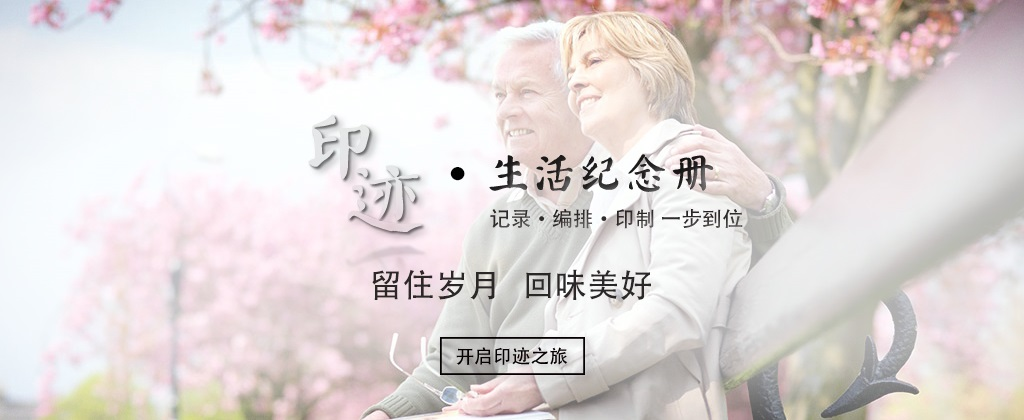
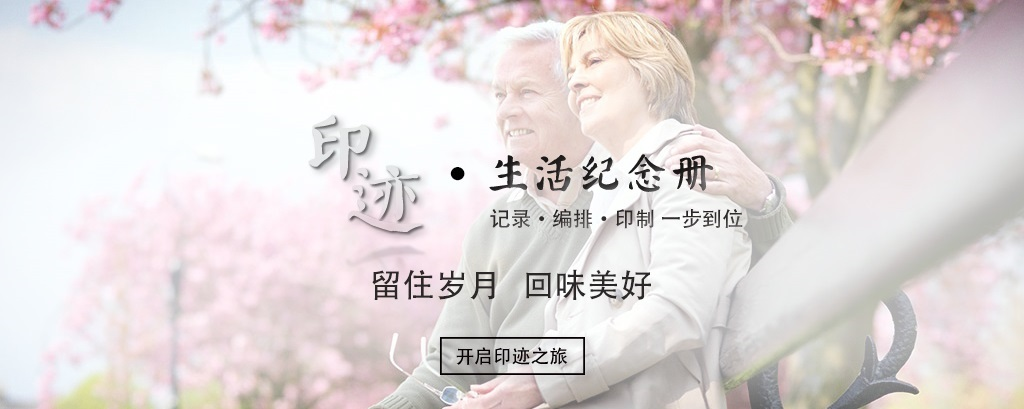
首页逻辑修改，添加按钮

diff --git a/public/css/home.css b/public/css/home.css
@@ -3,84 +3,26 @@ a
     text-decoration: none;
 }
 
-/*左侧导航栏*/
-#contentLeft
-{
-    position: fixed;
-    z-index: 10;
-    top: 85px;
 
-    width: 250px;
-    height: 87.3%;
-    padding-top: 200px;
-
-    background-color: rgb(241,241,241);
+.startBtn{
+    position:fixed;
+    top:80%;
+    left:43%;
+    z-index:999;
+    background-color:transparent;
+    border:3px solid #000000;
+    height:50px;
+    width:200px;
+    font-size:24px;
+    font-weight:bold;
+    color:#000000;
 }
-
-#leftNavigation
-{
-    margin: 2rem 0;
-    padding: 0;
-
-    list-style: none;
-}
-
-#leftNavigation li
-{
-    height: 50px;
-    padding-top: 10px;
-}
-
-#leftNavigation li a
-{
-    font-size: .875rem;
-    line-height: 50px;
-
-    position: relative;
-
-    display: block;
-    overflow: hidden;
-
-    padding: .8rem 1rem .8rem 3rem;
-
-    -webkit-transition: color .2s ease;
-            transition: color .2s ease;
-    text-decoration: none;
-    text-overflow: ellipsis;
-
-    color: #000;
-}
-
-#leftNavigation li a,
-#leftNavigation li a .leftNavIcon
-{
-    line-height: 120%;
-}
-
-#leftNavigation li a .leftNavIcon
-{
-    position: absolute;
-    top: 0;
-    left: 0;
-
-    width: 3rem;
-    padding: .8rem 0;
-
-    text-align: center;
-}
-
-#leftNavigation li:hover
-{
-    background-color: #ccc;
-}
-
 
 
 /*轮播插件*/
 .pictureSlide
 {
-    
-
+    z-index:-999;
     width: 100%;
     height: 540px;
     margin-top: 76px;

diff --git a/public/js/album.js b/public/js/album.js
@@ -79,18 +79,3 @@ yinjiApp.controller('albumController',
 			});
 		};
 	});
-
-
-
-yinjiApp.controller('homeController',
-	function test($scope,$http,$rootScope){
-		$scope.startYinji = function(){
-			$http.get('/getUserName')
-			.success(function(response){
-				if (response=="")
-					window.location.href = '/login';
-				else
-					window.location.href = '/create_album';
-			});
-		}
-	});

diff --git a/resources/views/home.blade.php b/resources/views/home.blade.php
@@ -4,7 +4,6 @@
 
 @section('header')
 	@parent
-
 	<link rel="stylesheet" type="text/css" href="/css/home.css">
 	<link rel="stylesheet" type="text/css" href="/css/home/reset.css" />
 	<link rel="stylesheet" type="text/css" href="/css/home/htmleaf-demo.css">
@@ -19,40 +18,36 @@
 @stop
 
 @section('content')
-
-	
-
-<div>
-<!-- ng-controller="testController" -->
-	<div class = "pictureSlide">
-		<div id="myCarousel" class="carousel slide">
-		<!-- 轮播（Carousel）指标 -->
-			<ol class="carousel-indicators">
-				<li data-target="#myCarousel" data-slide-to="0" class="active"></li>
-				<li data-target="#myCarousel" data-slide-to="1"></li>
-				<li data-target="#myCarousel" data-slide-to="2"></li>
-				<li data-target="#myCarousel" data-slide-to="3"></li>
-			</ol>
-		<!-- 轮播（Carousel）项目 -->
-		<div class="carousel-inner">
-			<div class="item active">
-				<img src="/images/background/back1.jpg" alt="First slide">
+	<div ng-controller="homeController">
+		<button class="startBtn" ng-click="startYinji()">开启印迹之旅</button>
+		<div class = "pictureSlide">
+			<div id="myCarousel" class="carousel slide">
+			<!-- 轮播（Carousel）指标 -->
+				<ol class="carousel-indicators">
+					<li data-target="#myCarousel" data-slide-to="0" class="active"></li>
+					<li data-target="#myCarousel" data-slide-to="1"></li>
+					<li data-target="#myCarousel" data-slide-to="2"></li>
+					<li data-target="#myCarousel" data-slide-to="3"></li>
+				</ol>
+			<!-- 轮播（Carousel）项目 -->
+			<div class="carousel-inner">
+				<div class="item active">
+					<img src="/images/background/back1.jpg" alt="First slide">
+				</div>
+				<div class="item">
+					<img src="/images/background/back2.jpg" alt="Second slide">
+				</div>
+				<div class="item">
+					<img src="/images/background/back3.jpg" alt="Third slide">
+				</div>
+				<div class="item">
+					<img src="/images/background/back4.jpg" alt="Forth slide">
+				</div>
 			</div>
-			<div class="item">
-				<img src="/images/background/back2.jpg" alt="Second slide">
-			</div>
-			<div class="item">
-				<img src="/images/background/back3.jpg" alt="Third slide">
-			</div>
-			<div class="item">
-				<img src="/images/background/back4.jpg" alt="Forth slide">
+			<!-- 轮播（Carousel）导航 -->
+			<a class="carousel-control left" href="#myCarousel" data-slide="prev">&lsaquo;</a>
+			<a class="carousel-control right" href="#myCarousel" data-slide="next">&rsaquo;</a>
 			</div>
 		</div>
-		<!-- 轮播（Carousel）导航 -->
-		<a class="carousel-control left" href="#myCarousel" data-slide="prev">&lsaquo;</a>
-		<a class="carousel-control right" href="#myCarousel" data-slide="next">&rsaquo;</a>
-		</div> 
-
 	</div>
-</div>
 @stop

diff --git a/resources/views/layouts/content.blade.php b/resources/views/layouts/content.blade.php
@@ -48,14 +48,14 @@
 						<input type="submit"  value=""/>		
 					</div>
 					
-					<label>欢迎您					
+					<label>欢迎您，
 						<?php 
 							if(!isset($_SESSION)){
 								session_start();
 							}
 							echo $_SESSION['userName'];
 						?>
-					~</label>&nbsp;&nbsp;&nbsp;
+					</label>&nbsp;&nbsp;&nbsp;
 					<a href="/auth/logout" id = "logoffBtn">注销</a>
 				</div>
 
@@ -84,14 +84,15 @@
 					</div>
 					<a href="login" id = "loginBtn">登录</a>
 				</div>
-			@endif
-					@show
- 
+				@endif
+				@show
+
 				<div class="clearfix"> </div>
 			</div>
 		</div>
 	</div>
 	<!--导航栏结束-->
+
 
 	@section('content')
 	@show

diff --git a/resources/views/orderInfo.blade.php b/resources/views/orderInfo.blade.php
@@ -42,7 +42,7 @@
                 </tbody>
             </table>
 
-            <p ng-show="!ifShow" style="padding-left: 15%;padding-top:3%;">对不起，您目前尚未有任何订单哦~点击<a href='/create_album'>添加</a>，添加您的第一本纪念册吧！</p>
+            <p ng-show="!ifShow" style="padding-left: 15%;padding-top:3%;">对不起，您目前尚未有任何订单哦~</p>
         </div>
 
         <div class="modal fade" id="orderDetailModal" tabindex="-1" role="dialog" aria-labelledby="modalLabel">

diff --git a/app/Http/routes.php b/app/Http/routes.php
@@ -23,7 +23,9 @@ Route::group(['middleware'=>'web'],function(){
         if(!isset($_SESSION)){
             session_start();
         }
-        return $_SESSION['userName'];
+        if (isset($_SESSION['userName']) && $_SESSION['userName'] != "")
+            return $_SESSION['userName'];
+        else return "";
     });
 
     //在前端获取当前用户权限
